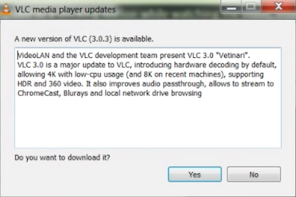
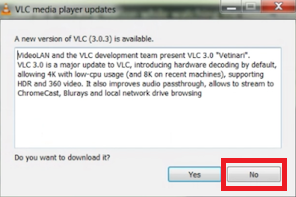
Updates to mac language.

Changed region(s): [[0.7297, 0.7919, 0.973, 0.9746]]

diff --git a/_pages/insite-live.html b/_pages/insite-live.html
@@ -13,9 +13,9 @@ permalink: /insite-live/
 
 <ul>
 <li>
-    If you are in a GSA office, connect your computer to a docking station while watching the video, instead of using wireless ("wifi").</li>
+    <strong>In a GSA Office:</strong> connect your computer to a docking station while watching the video, instead of using wireless ("wifi").</li>
 <li>
-    If you are using a Mac, connect to a Horizon desktop (VDI), and then follow the instructions for Horizon in step 2. (If you need information about using Horizon on Mac, read this InSite page: <A HREF="https://insite.gsa.gov/portal/category/536278">Horizon VDI on a Mac</A>.)</li>
+    <strong>Using a Mac: </strong>connect to a Horizon desktop (VDI) and open this page in Google chrome. In step 2 select "I am watching from a Horizon desktop (VDI)". (If you need information about using Horizon on Mac, read this InSite page: <A HREF="https://insite.gsa.gov/portal/category/536278">Horizon VDI on a Mac</A>.)</li>
 
 </ul>
 
@@ -25,19 +25,19 @@ permalink: /insite-live/
 
 <ul>
 <li>
-<a href="../assets/downloads/InSite Live - Field Offices.xspf">I am watching from a field office</a>
+    <a href="../assets/downloads/InSite Live - VDI.xspf">I am watching from a Horizon desktop (VDI)</a>
 </li>
 <li>
 <a href="../assets/downloads/InSite Live - VPN.xspf">I am teleworking and watching on VPN</a>
 </li>
 <li>
+    <a href="../assets/downloads/InSite Live - Field Offices.xspf">I am watching from a field office</a>
+    </li>
+<li>
     <a href="../assets/downloads/InSite Live - Regional Office Buildings.xspf">I am watching from a Regional Office Building</a>
 </li>
 <li>
     <a href="../assets/downloads/InSite Live - GSA HQ.xspf">I am watching from an office in Washington, D.C.</a>
-</li>
-<li>
-    <a href="../assets/downloads/InSite Live - VDI.xspf">I am watching from a Horizon desktop (VDI)</a>
 </li>
 </ul>
 
@@ -50,4 +50,5 @@ permalink: /insite-live/
 <img alt="Dialog with a title of Privacy and Network Access Policy. The check bock titled Allow Metadata Network Access is unchecked. The check box Regularly check for VLC Updates is unchecked." src="../assets/img/vlc_privacy_prompt_small.png">
 
 <h4>6. If a dialog with the title "VLC Media Player Updates" is displayed, click "No".</h4>
-<img alt="Dialog with a title of VLC media player updates and a yes and no button at the bottom." src="../assets/img/vlc_update_notice_small.png">
+<img alt="Dialog with a title of VLC media player updates. The NO button is highlighted." src="../assets/img/vlc_update_notice_small.png">
+<h4>7. Enjoy the broadcast!
